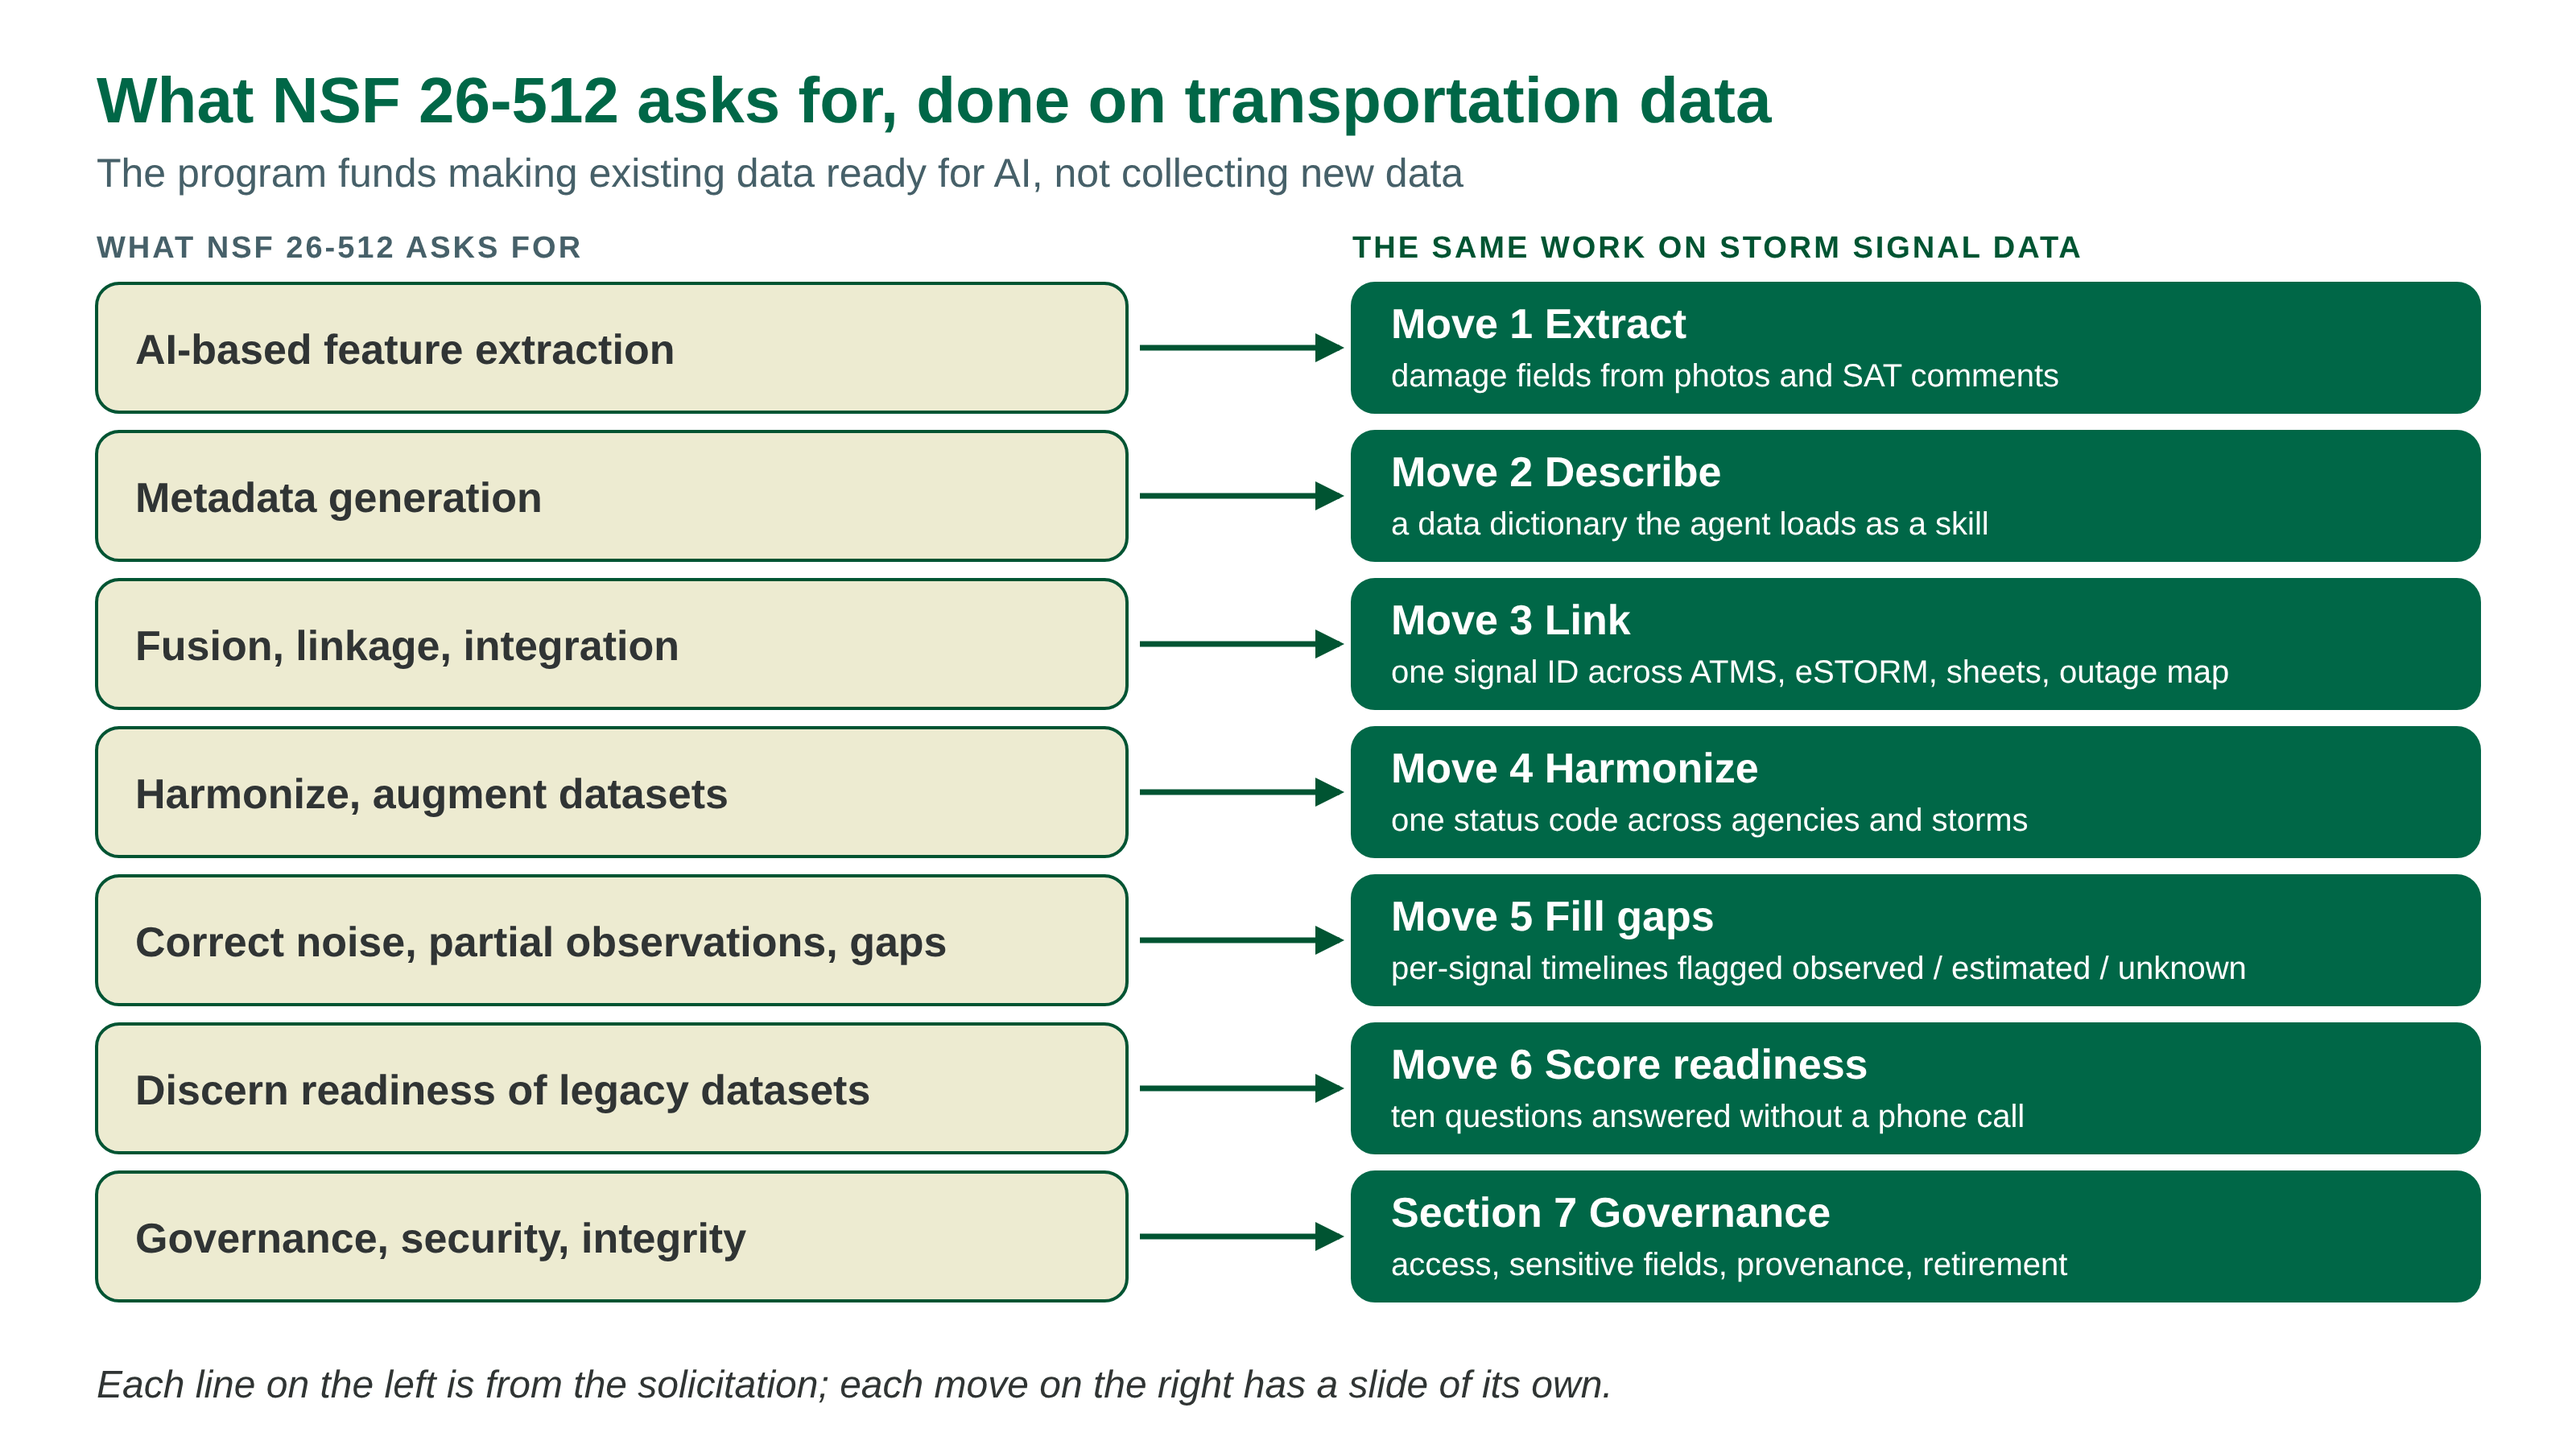
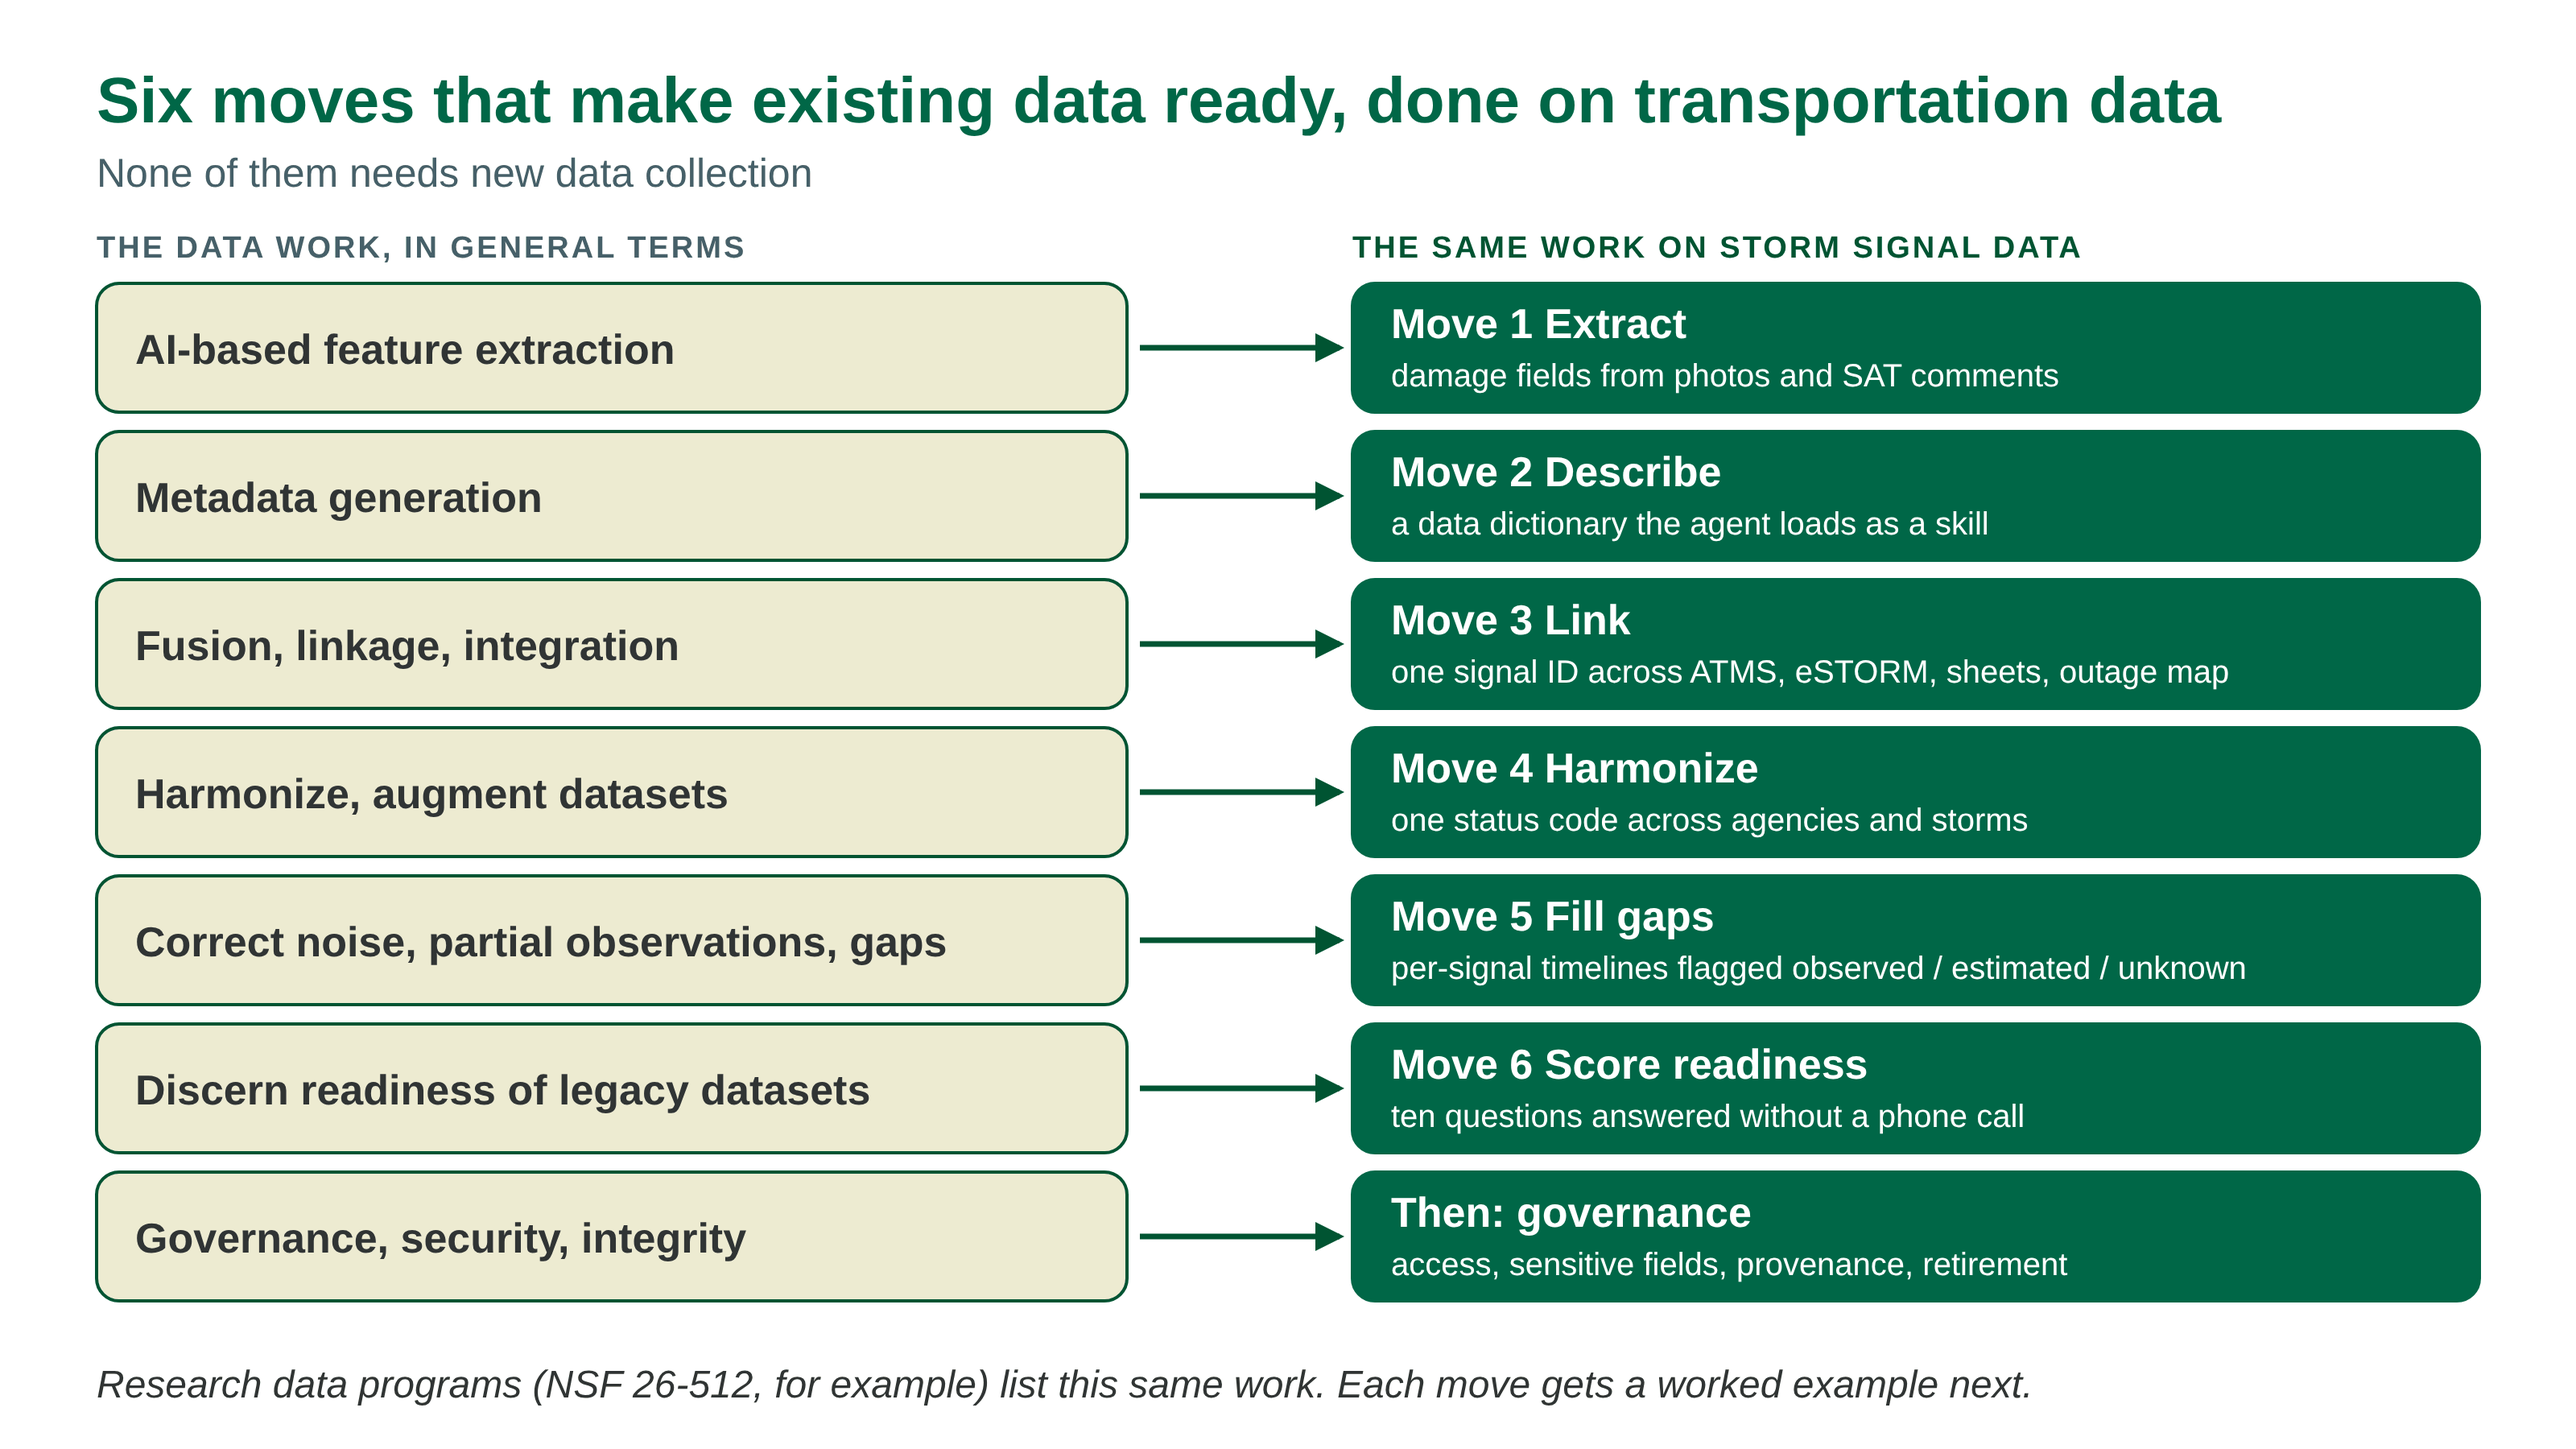
Module 8.1: open "Why now" with AI in science, not one funding call
Why now starts from AlphaFold (Protein Data Bank) and ECMWF's AIFS
(ERA5): AI helps science where a field made its data ready first.
Funders (EU RAISE, NSF 26-512) are now named only as examples. The
six-moves intro, its figure and the 8.2 governance line no longer
frame the work as NSF's. Also removes "#" from an 8.2 figure alt.

Claude-Session: https://claude.ai/code/session_014NvYPpHYx5fbYy6BYu5CqD

Changed region(s): [[0.0312, 0.0311, 0.875, 0.1867], [0.0312, 0.9333, 0.7812, 0.9644], [0.5312, 0.8089, 0.7188, 0.8711]]

diff --git a/module8/notes1-data.md b/module8/notes1-data.md
@@ -28,14 +28,15 @@
 
 ## What this section covers
 
-- Why now: NSF's new program for making existing data ready for AI
+- Why now: AI already helps science where the data is ready
 - The job: signals on the morning after landfall, and the five questions the agent must answer
 - Six kinds of data in one run of the agent, and where each stands today
 - Why data kept for people is not ready for an agent
 - Six moves that make existing data ready, each with a worked example
 - What to do for your project
 
-**Where the ideas come from.** The six moves follow the work list of NSF 26-512. The agents unit as a whole follows
+**Where the ideas come from.** The six moves group the data work that programs such as NSF 26-512 list; they
+apply to any agency's data. The agents unit as a whole follows
 [CMU 11-768 AI Agents](https://www.cmu-agents.com/) (Fried and Neubig), and the training part of Section 8.2 follows
 Stanford CS 329Z *Engineering AI Agents* (Yang, Ryan and Yang), lecture 11, "What Data Do Agents Need?". The running
 example is the FDOT District 7 *Traffic Signals Standard Operating Procedures Reference Guide* (v1.5, June 2025) and
@@ -43,17 +44,24 @@ the class skill [`d7-signal-sop`](https://github.com/ai4mobility/transportation-
 built from it. Clause names such as "Immediately Post Storm 3.2.1" point to that SOP. **The storm scenario, the
 signal IDs and every sample record on this page are synthetic.** They are not District 7 data.
 
-## Why now: NSF pays to make existing data ready for AI
+## Why now: AI already helps science where the data is ready
 
-In July 2026 the National Science Foundation opened a program called
-[AI Datasets (NSF 26-512)](https://www.nsf.gov/funding/opportunities/ai-datasets-unlocking-dataset-value-ai-enabled-scientific-discovery/nsf26-512/solicitation).
-It pays teams to make existing scientific datasets usable by AI: up to $200,000 for planning grants, $2 million for
-Impact awards and $5 million for Flagship awards, about $60 to $100 million in total, with a deadline on the first
-Wednesday of November each year. It does not pay to collect new data. Its starting point is that datasets were
-curated "for use by humans or heuristic scripting," and that AI systems are now often the first reader.
+AI is already changing how science is done. AlphaFold predicts the 3D shape of a protein from its sequence, work that
+shared the 2024 Nobel Prize in Chemistry. In weather forecasting, the European Centre for Medium-Range Weather
+Forecasts (ECMWF) has run a machine-learned model, AIFS, as an operational forecast since February 2025. Look at what
+sits under both: data that a field spent decades making ready. AlphaFold learned from the Protein Data Bank, where
+every structure is reviewed, validated and free to use. AIFS learned from ERA5, an hour-by-hour reconstruction of the
+world's weather since 1940, made with one fixed method for every year. The data came first; the model came last.
 
-Transportation agencies are in the same position. They hold decades of data collected for engineers to read, and
-agents are a new kind of reader. So this section uses the program's work list as a checklist for transportation data.
+Transportation has plenty of data: detector counts, signal logs, crash reports, probe speeds, inspection photos. Most
+of it is kept by one agency, in one format, for people to read. There is no Protein Data Bank for signals after a
+storm. Agents make this more urgent. An agent does not only learn from data; it reads data and acts on it in the
+middle of a job, so data it cannot reach, read or check is data it cannot use.
+
+Research funders have started to pay for this work. In Europe, the [RAISE pilot](https://research-and-innovation.ec.europa.eu/strategy/strategy-research-and-innovation/our-digital-future/european-ai-science-strategy_en)
+(launched November 2025, €107 million) pools computing power, data, talent and funding for AI in science. In the
+United States, the National Science Foundation's [AI Datasets program (NSF 26-512)](https://www.nsf.gov/funding/opportunities/ai-datasets-unlocking-dataset-value-ai-enabled-scientific-discovery/nsf26-512/solicitation)
+pays teams to make existing datasets usable by AI. This section does that work on one transportation job.
 
 | Word | What it means here |
 |---|---|
@@ -209,14 +217,15 @@ This is good data for its first reader. The rest of this section is about prepar
 (six-moves)=
 ## Six moves that make existing data ready
 
-NSF 26-512 names the work: extract features, generate metadata, link datasets, harmonize them, fill gaps, and judge
-readiness. Here is each move on the storm job. None of them needs new data collection.
+Making existing data ready for AI takes six kinds of work: extract features, describe the data (metadata), link
+datasets, harmonize them, fill gaps, and judge readiness. Here is each move on the storm job. None of them needs new
+data collection.
 
 ```{figure} ../_static/figures/ARD_NSF_Map.png
-:alt: Seven lines from the NSF solicitation on the left mapped to the work on storm signal data on the right - feature extraction to Move 1 Extract, metadata generation to Move 2 Describe, fusion and linkage to Move 3 Link, harmonize to Move 4 Harmonize, correcting noise and gaps to Move 5 Fill gaps, discerning readiness to Move 6 Score readiness, and governance to Section 8.2.
+:alt: Seven kinds of data work on the left mapped to the same work on storm signal data on the right - feature extraction to Move 1 Extract, metadata generation to Move 2 Describe, fusion and linkage to Move 3 Link, harmonize to Move 4 Harmonize, correcting noise and gaps to Move 5 Fill gaps, discerning readiness to Move 6 Score readiness, and governance to Section 8.2.
 :width: 100%
 
-What NSF 26-512 asks for, done on transportation data.
+The six moves, plus governance, done on transportation data.
 ```
 
 ### Move 1. Extract: turn text and photos into fields
@@ -380,8 +389,17 @@ Section 8.2 ends with a one-page data plan that builds on these answers.
 
 ## Sources
 
+- The Nobel Prize in Chemistry 2024 (David Baker; Demis Hassabis and John Jumper). On the Protein Data Bank as the
+  training data: PDBe, [The Nobel Prize in Chemistry 2024](https://www.ebi.ac.uk/pdbe/node/62213).
+- Lang, S., et al. (2024). [AIFS: ECMWF's data-driven forecasting system](https://arxiv.org/abs/2406.01465).
+  Operational since February 25, 2025: [AIFS Single v1.1.0](https://gmd.copernicus.org/articles/19/4703/2026/),
+  *Geoscientific Model Development* 19, 4703 (2026).
+- Copernicus Climate Change Service. [ERA5 hourly data from 1940 to present](https://cds.climate.copernicus.eu/datasets/reanalysis-era5-single-levels).
+- European Commission (2025). [European Strategy for AI in Science and RAISE](https://research-and-innovation.ec.europa.eu/strategy/strategy-research-and-innovation/our-digital-future/european-ai-science-strategy_en);
+  [Commission launches 'Resource for AI Science in Europe'](https://digital-strategy.ec.europa.eu/en/news/commission-launches-resource-ai-science-europe),
+  November 3, 2025.
 - U.S. National Science Foundation (2026). [NSF 26-512: Unlocking Dataset Value for AI-Enabled Scientific Discovery (AI Datasets)](https://www.nsf.gov/funding/opportunities/ai-datasets-unlocking-dataset-value-ai-enabled-scientific-discovery/nsf26-512/solicitation),
-  program solicitation, posted July 21, 2026 (award sizes, scope, and the work list behind the six moves).
+  program solicitation, posted July 21, 2026 (scope and its list of data work).
 - FDOT District 7 (2025). *Traffic Signals Standard Operating Procedures Reference Guide*, v1.5, pages 5–11, cited by
   clause; the class skill [`d7-signal-sop`](https://github.com/ai4mobility/transportation-skills/tree/main/skills/d7-signal-sop)
   (its `sop_text.md`, `gaps.md`, synthetic scenario and example cards).

diff --git a/module8/notes2-data-create.md b/module8/notes2-data-create.md
@@ -41,8 +41,8 @@ outputs of `rules.py` are real: they come from running the class skill's code on
 ## Data that does not exist yet
 
 Section 8.1 named three kinds of data that are scattered or not kept: checks and answer keys, records of work, and
-outcomes. Building them takes five concrete things that nobody needed before agents. NSF's program does not pay for
-new data, but an agency or a research team that wants a working agent still has to make these.
+outcomes. Building them takes five concrete things that nobody needed before agents. An agency or a research team that
+wants a working agent has to make them.
 
 ### 1. Task records from past storms
 
@@ -293,7 +293,7 @@ you have to rebuild what was known at each moment from the snapshots. No snapsho
 ### What you reward decides what the agent learns
 
 ```{figure} ../_static/figures/ARD_Reward_Toy.png
-:alt: A synthetic toy with one crew and seven dark signals - P1 and P2 are Priority #1 signals that take 3 hours each, and E1 to E5 take 1 hour each. Easy-first restores 5 signals by hour 6, leaves Priority #1 signals dark for 19 signal-hours and all signals for 34. Priority-first restores 2 by hour 6, 9 Priority #1 signal-hours and 54 in all.
+:alt: A synthetic toy with one crew and seven dark signals - P1 and P2 are Priority No. 1 signals that take 3 hours each, and E1 to E5 take 1 hour each. Easy-first restores 5 signals by hour 6, leaves Priority No. 1 signals dark for 19 signal-hours and all signals for 34. Priority-first restores 2 by hour 6, 9 Priority No. 1 signal-hours and 54 in all.
 :width: 100%
 
 Three reasonable rewards, two different orders. Train on "restored by hour 6" and the agent learns easy-first; that is
@@ -316,8 +316,9 @@ Lecture 11 warns that training data teaches more than you intended. Each warning
 
 ## Governance: who reads it, who changes it, when it expires
 
-Ready data that anyone can read or change is a liability, so a dataset needs rules as well as fields. NSF requires
-every proposal to cover access, retirement, community contribution, security and integrity. The same questions fit an
+Ready data that anyone can read or change is a liability, so a dataset needs rules as well as fields. Programs that fund
+AI-ready data, such as NSF 26-512, ask every team to cover access, retirement, community contribution, security
+and integrity. The same questions fit an
 agency dataset.
 
 | Question | For the storm data |
